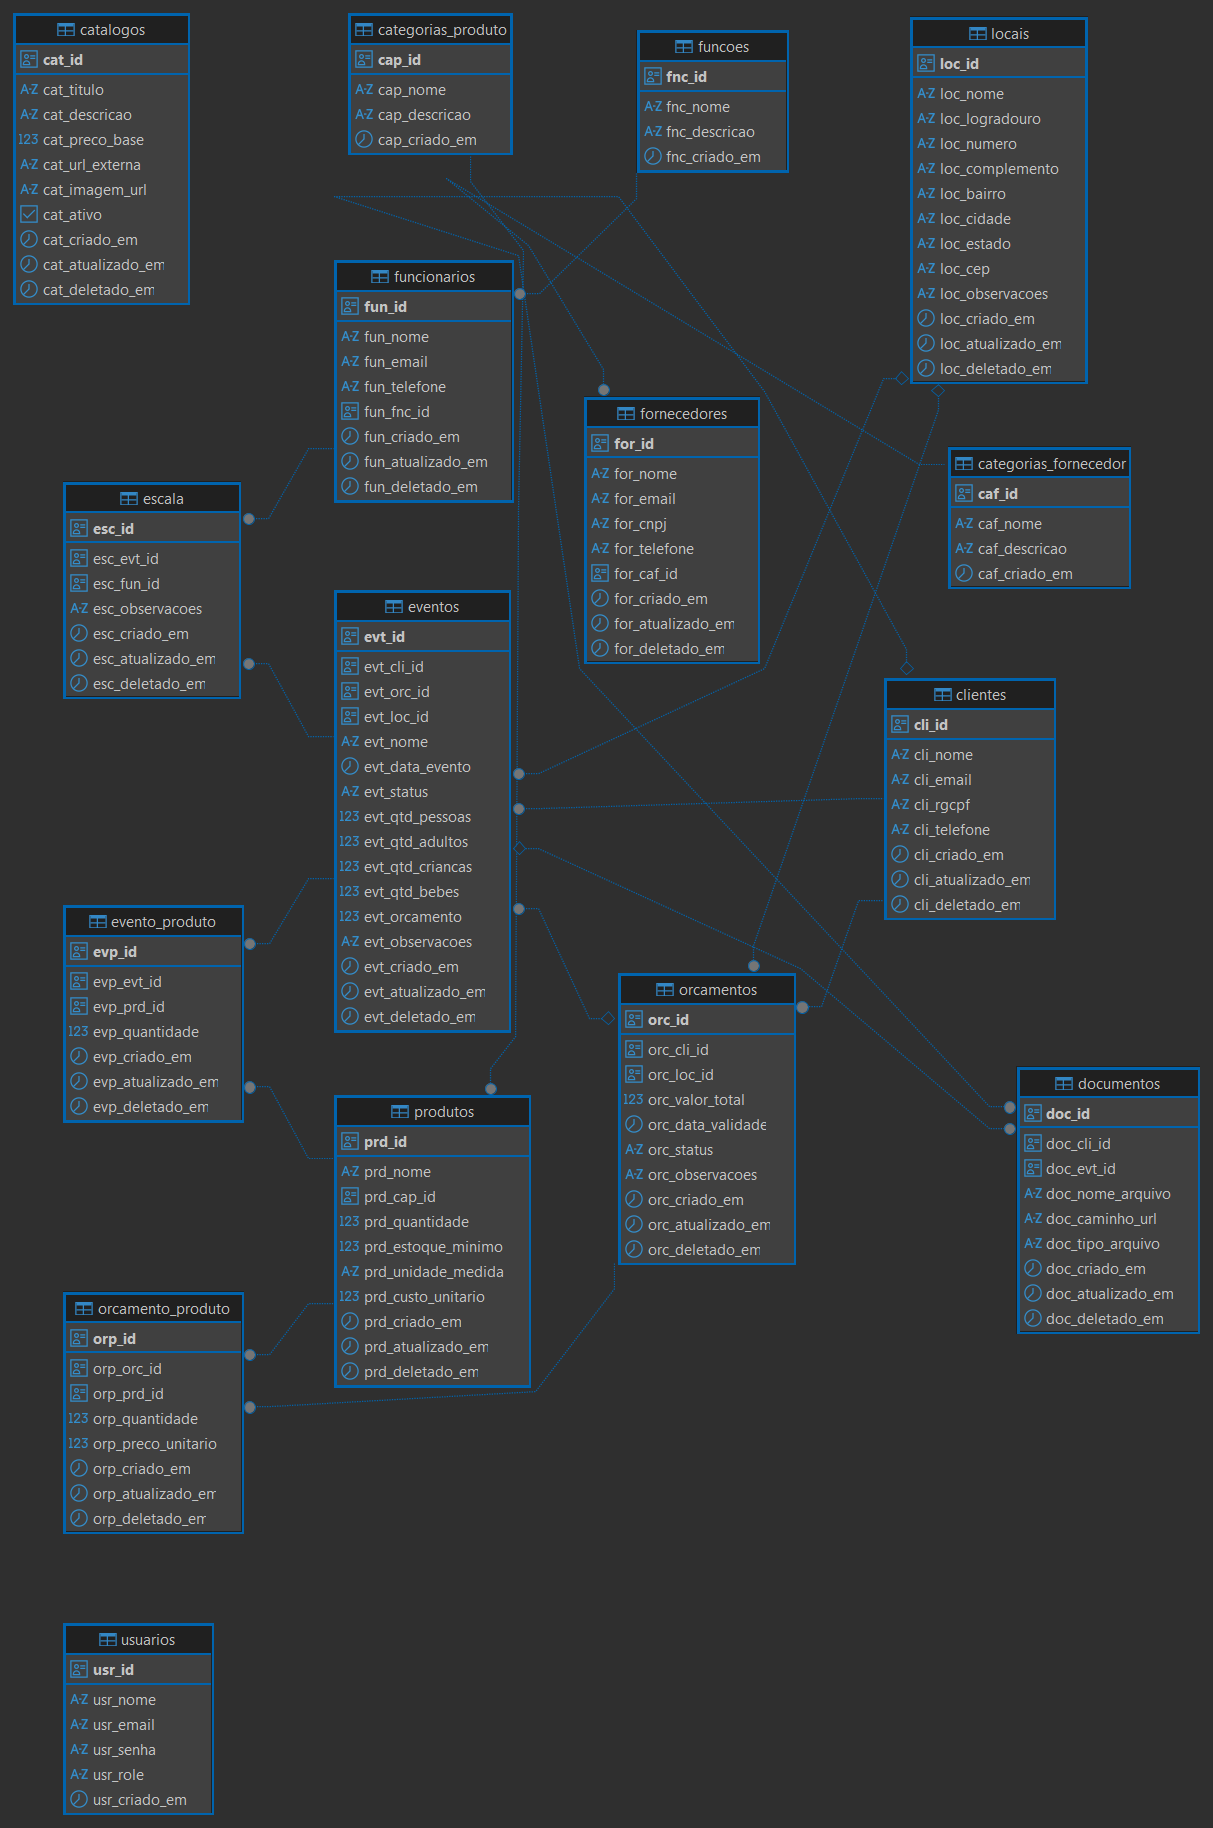
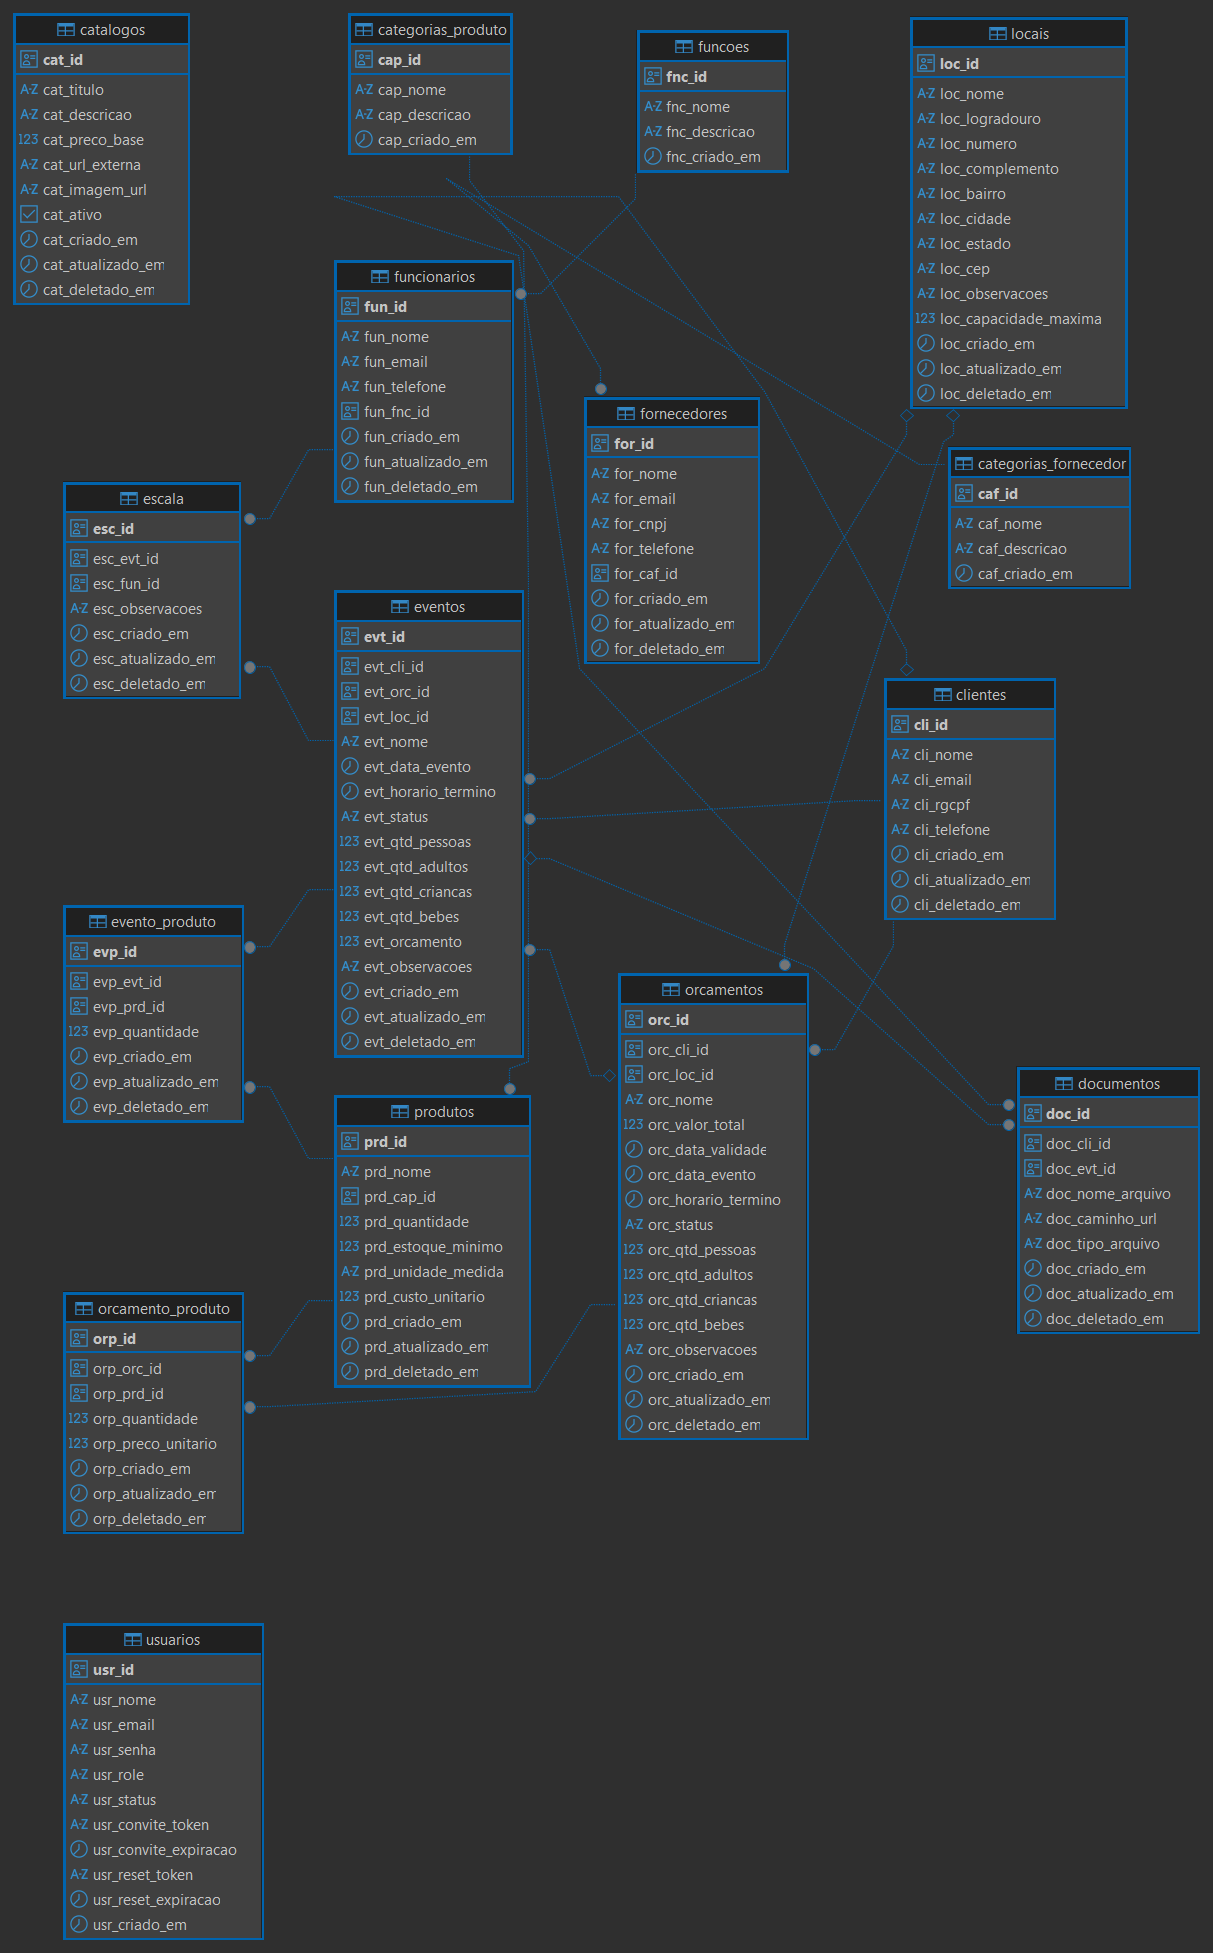
fix: ajuste de lisatagem de datas e dashboard

diff --git a/frontend/src/pages/Dashboard/DashboardCharts.jsx b/frontend/src/pages/Dashboard/DashboardCharts.jsx
@@ -36,7 +36,7 @@ export default function DashboardCharts() {
           <div className="flex h-full items-center justify-center text-on-surface-variant">Sem dados para exibir</div>
         ) : (
           <ResponsiveContainer width="100%" height="80%">
-            <AreaChart data={data.timeSeries} margin={{ top: 10, right: 10, left: -20, bottom: 0 }}>
+            <AreaChart data={data.timeSeries} margin={{ top: 10, right: 30, left: 20, bottom: 20 }}>
               <defs>
                 <linearGradient id="colorEventos" x1="0" y1="0" x2="0" y2="1">
                   <stop offset="5%" stopColor="#4F46E5" stopOpacity={0.3}/>
@@ -44,8 +44,8 @@ export default function DashboardCharts() {
                 </linearGradient>
               </defs>
               <CartesianGrid strokeDasharray="3 3" vertical={false} stroke="#E5E7EB" />
-              <XAxis dataKey="mes" tick={{fill: '#71717A', fontSize: 12}} tickLine={false} axisLine={false} />
-              <YAxis tick={{fill: '#71717A', fontSize: 12}} tickLine={false} axisLine={false} allowDecimals={false} />
+              <XAxis dataKey="mes" tick={{fill: '#71717A', fontSize: 12}} tickLine={false} axisLine={false} label={{ value: 'Mês do Evento', position: 'insideBottom', offset: -15, fill: '#71717A', fontSize: 12, fontWeight: 'bold' }} />
+              <YAxis tick={{fill: '#71717A', fontSize: 12}} tickLine={false} axisLine={false} allowDecimals={false} label={{ value: 'Qtd de Eventos', angle: -90, position: 'insideLeft', dx: -20, fill: '#71717A', fontSize: 12, fontWeight: 'bold' }} />
               <Tooltip 
                 contentStyle={{ borderRadius: '12px', border: 'none', boxShadow: '0 4px 6px -1px rgb(0 0 0 / 0.1)' }}
                 itemStyle={{ color: '#4F46E5', fontWeight: 'bold' }}
@@ -63,10 +63,10 @@ export default function DashboardCharts() {
           <div className="flex h-full items-center justify-center text-on-surface-variant">Sem dados para exibir</div>
         ) : (
           <ResponsiveContainer width="100%" height="80%">
-            <BarChart data={data.infra} margin={{ top: 10, right: 10, left: -20, bottom: 0 }}>
+            <BarChart data={data.infra} margin={{ top: 10, right: 30, left: 20, bottom: 20 }}>
               <CartesianGrid strokeDasharray="3 3" vertical={false} stroke="#E5E7EB" />
-              <XAxis dataKey="name" tick={{fill: '#71717A', fontSize: 11}} tickLine={false} axisLine={false} />
-              <YAxis tick={{fill: '#71717A', fontSize: 12}} tickLine={false} axisLine={false} allowDecimals={false} />
+              <XAxis dataKey="name" tick={{fill: '#71717A', fontSize: 11}} tickLine={false} axisLine={false} label={{ value: 'Local', position: 'insideBottom', offset: -15, fill: '#71717A', fontSize: 12, fontWeight: 'bold' }} />
+              <YAxis tick={{fill: '#71717A', fontSize: 12}} tickLine={false} axisLine={false} allowDecimals={false} label={{ value: 'Qtd de Eventos', angle: -90, position: 'insideLeft', dx: -20, fill: '#71717A', fontSize: 12, fontWeight: 'bold' }} />
               <Tooltip 
                 formatter={(value) => [`${value} eventos`, 'Quantidade']}
                 contentStyle={{ borderRadius: '12px', border: 'none', boxShadow: '0 4px 6px -1px rgb(0 0 0 / 0.1)' }}
@@ -91,10 +91,10 @@ export default function DashboardCharts() {
           </div>
         ) : (
           <ResponsiveContainer width="100%" height="80%">
-            <ScatterChart margin={{ top: 20, right: 20, bottom: 20, left: 20 }}>
+            <ScatterChart margin={{ top: 20, right: 30, bottom: 20, left: 40 }}>
               <CartesianGrid strokeDasharray="3 3" vertical={false} stroke="#E5E7EB" />
-              <XAxis type="number" dataKey="convidados" name="Convidados" tick={{fill: '#71717A', fontSize: 12}} tickLine={false} axisLine={false} />
-              <YAxis type="number" dataKey="custo" name="Custo Total" unit=" R$" tick={{fill: '#71717A', fontSize: 12}} tickLine={false} axisLine={false} />
+              <XAxis type="number" dataKey="convidados" name="Convidados" tick={{fill: '#71717A', fontSize: 12}} tickLine={false} axisLine={false} label={{ value: 'Número de Convidados', position: 'insideBottom', offset: -15, fill: '#71717A', fontSize: 12, fontWeight: 'bold' }} />
+              <YAxis type="number" dataKey="custo" name="Custo Total" unit=" R$" tick={{fill: '#71717A', fontSize: 12}} tickLine={false} axisLine={false} label={{ value: 'Custo Total (R$)', angle: -90, position: 'insideLeft', dx: -40, fill: '#71717A', fontSize: 12, fontWeight: 'bold' }} />
               <Tooltip 
                 cursor={{ strokeDasharray: '3 3' }}
                 content={({ payload }) => {

diff --git a/frontend/src/pages/Dashboard/DashboardPage.jsx b/frontend/src/pages/Dashboard/DashboardPage.jsx
@@ -122,7 +122,7 @@ export default function DashboardPage() {
               <tr className="bg-surface-container-low">
                 <th className="px-8 py-4 text-[11px] font-bold text-on-surface-variant uppercase tracking-widest">Evento</th>
                 <th className="px-8 py-4 text-[11px] font-bold text-on-surface-variant uppercase tracking-widest">Cliente</th>
-                <th className="px-8 py-4 text-[11px] font-bold text-on-surface-variant uppercase tracking-widest">Data & Hora</th>
+                <th className="px-8 py-4 text-[11px] font-bold text-on-surface-variant uppercase tracking-widest min-w-[160px]">Data & Hora</th>
                 <th className="px-8 py-4 text-[11px] font-bold text-on-surface-variant uppercase tracking-widest">Status</th>
                 <th className="px-8 py-4 text-[11px] font-bold text-on-surface-variant uppercase tracking-widest"></th>
               </tr>
@@ -149,7 +149,7 @@ export default function DashboardPage() {
                   <td className="px-8 py-5 text-sm text-on-surface-variant">
                     {evt.cliente?.nome || '—'}
                   </td>
-                  <td className="px-8 py-5">
+                  <td className="px-8 py-5 whitespace-nowrap">
                     <p className="text-sm text-on-surface font-medium">{formatDate(evt.dataEvento)}</p>
                     <p className="text-[11px] text-on-surface-variant">{formatTime(evt.dataEvento)}</p>
                   </td>

diff --git a/frontend/src/pages/Eventos/EventosPage.jsx b/frontend/src/pages/Eventos/EventosPage.jsx
@@ -405,7 +405,7 @@ export default function EventosPage() {
               <thead>
                 <tr className="text-on-surface-variant text-xs uppercase tracking-widest font-bold">
                   <th className="pb-4 px-4">Evento</th>
-                  <th className="pb-4 px-4 hidden sm:table-cell">Data & Hora</th>
+                  <th className="pb-4 px-4 hidden sm:table-cell min-w-[160px]">Data & Hora</th>
                   <th className="pb-4 px-4 hidden md:table-cell">Local</th>
                   <th className="pb-4 px-4 hidden sm:table-cell">Cliente</th>
                   <th className="pb-4 px-4">Status</th>
@@ -427,7 +427,7 @@ export default function EventosPage() {
                     onClick={() => setSelectedEvento(evt)}
                   >
                     <td className="py-4 px-4 font-semibold text-sm">{evt.nome}</td>
-                    <td className="py-4 px-4 text-sm hidden sm:table-cell">
+                    <td className="py-4 px-4 text-sm hidden sm:table-cell whitespace-nowrap">
                       {formatDate(evt.dataEvento)}{" "}
                       <span className="text-outline block text-[11px]">
                         {formatTime(evt.dataEvento)} — {formatTime(evt.horarioTermino)}

diff --git a/frontend/src/pages/Orcamentos/OrcamentosPage.jsx b/frontend/src/pages/Orcamentos/OrcamentosPage.jsx
@@ -234,7 +234,7 @@ export default function OrcamentosPage() {
               <thead>
                 <tr className="text-on-surface-variant text-xs uppercase tracking-widest font-bold">
                   <th className="pb-4 px-4">Orçamento (Evento)</th>
-                  <th className="pb-4 px-4 hidden sm:table-cell">Data & Hora</th>
+                  <th className="pb-4 px-4 hidden sm:table-cell min-w-[160px]">Data & Hora</th>
                   <th className="pb-4 px-4 hidden sm:table-cell">Cliente</th>
                   <th className="pb-4 px-4 hidden md:table-cell">Local</th>
                   <th className="pb-4 px-4">Valor Total</th>
@@ -247,7 +247,7 @@ export default function OrcamentosPage() {
                 {orcamentos.map((o) => (
                   <tr key={o.id} className="group hover:bg-surface-container-low transition-colors cursor-pointer" onClick={() => setSelected(o)}>
                     <td className="py-4 px-4 font-semibold text-sm">{o.nome || '—'}</td>
-                    <td className="py-4 px-4 text-sm hidden sm:table-cell">
+                    <td className="py-4 px-4 text-sm hidden sm:table-cell whitespace-nowrap">
                       {formatDate(o.dataEvento)}{" "}
                       <span className="text-outline block text-[11px]">
                         {formatTime(o.dataEvento)} — {formatTime(o.horarioTermino)}